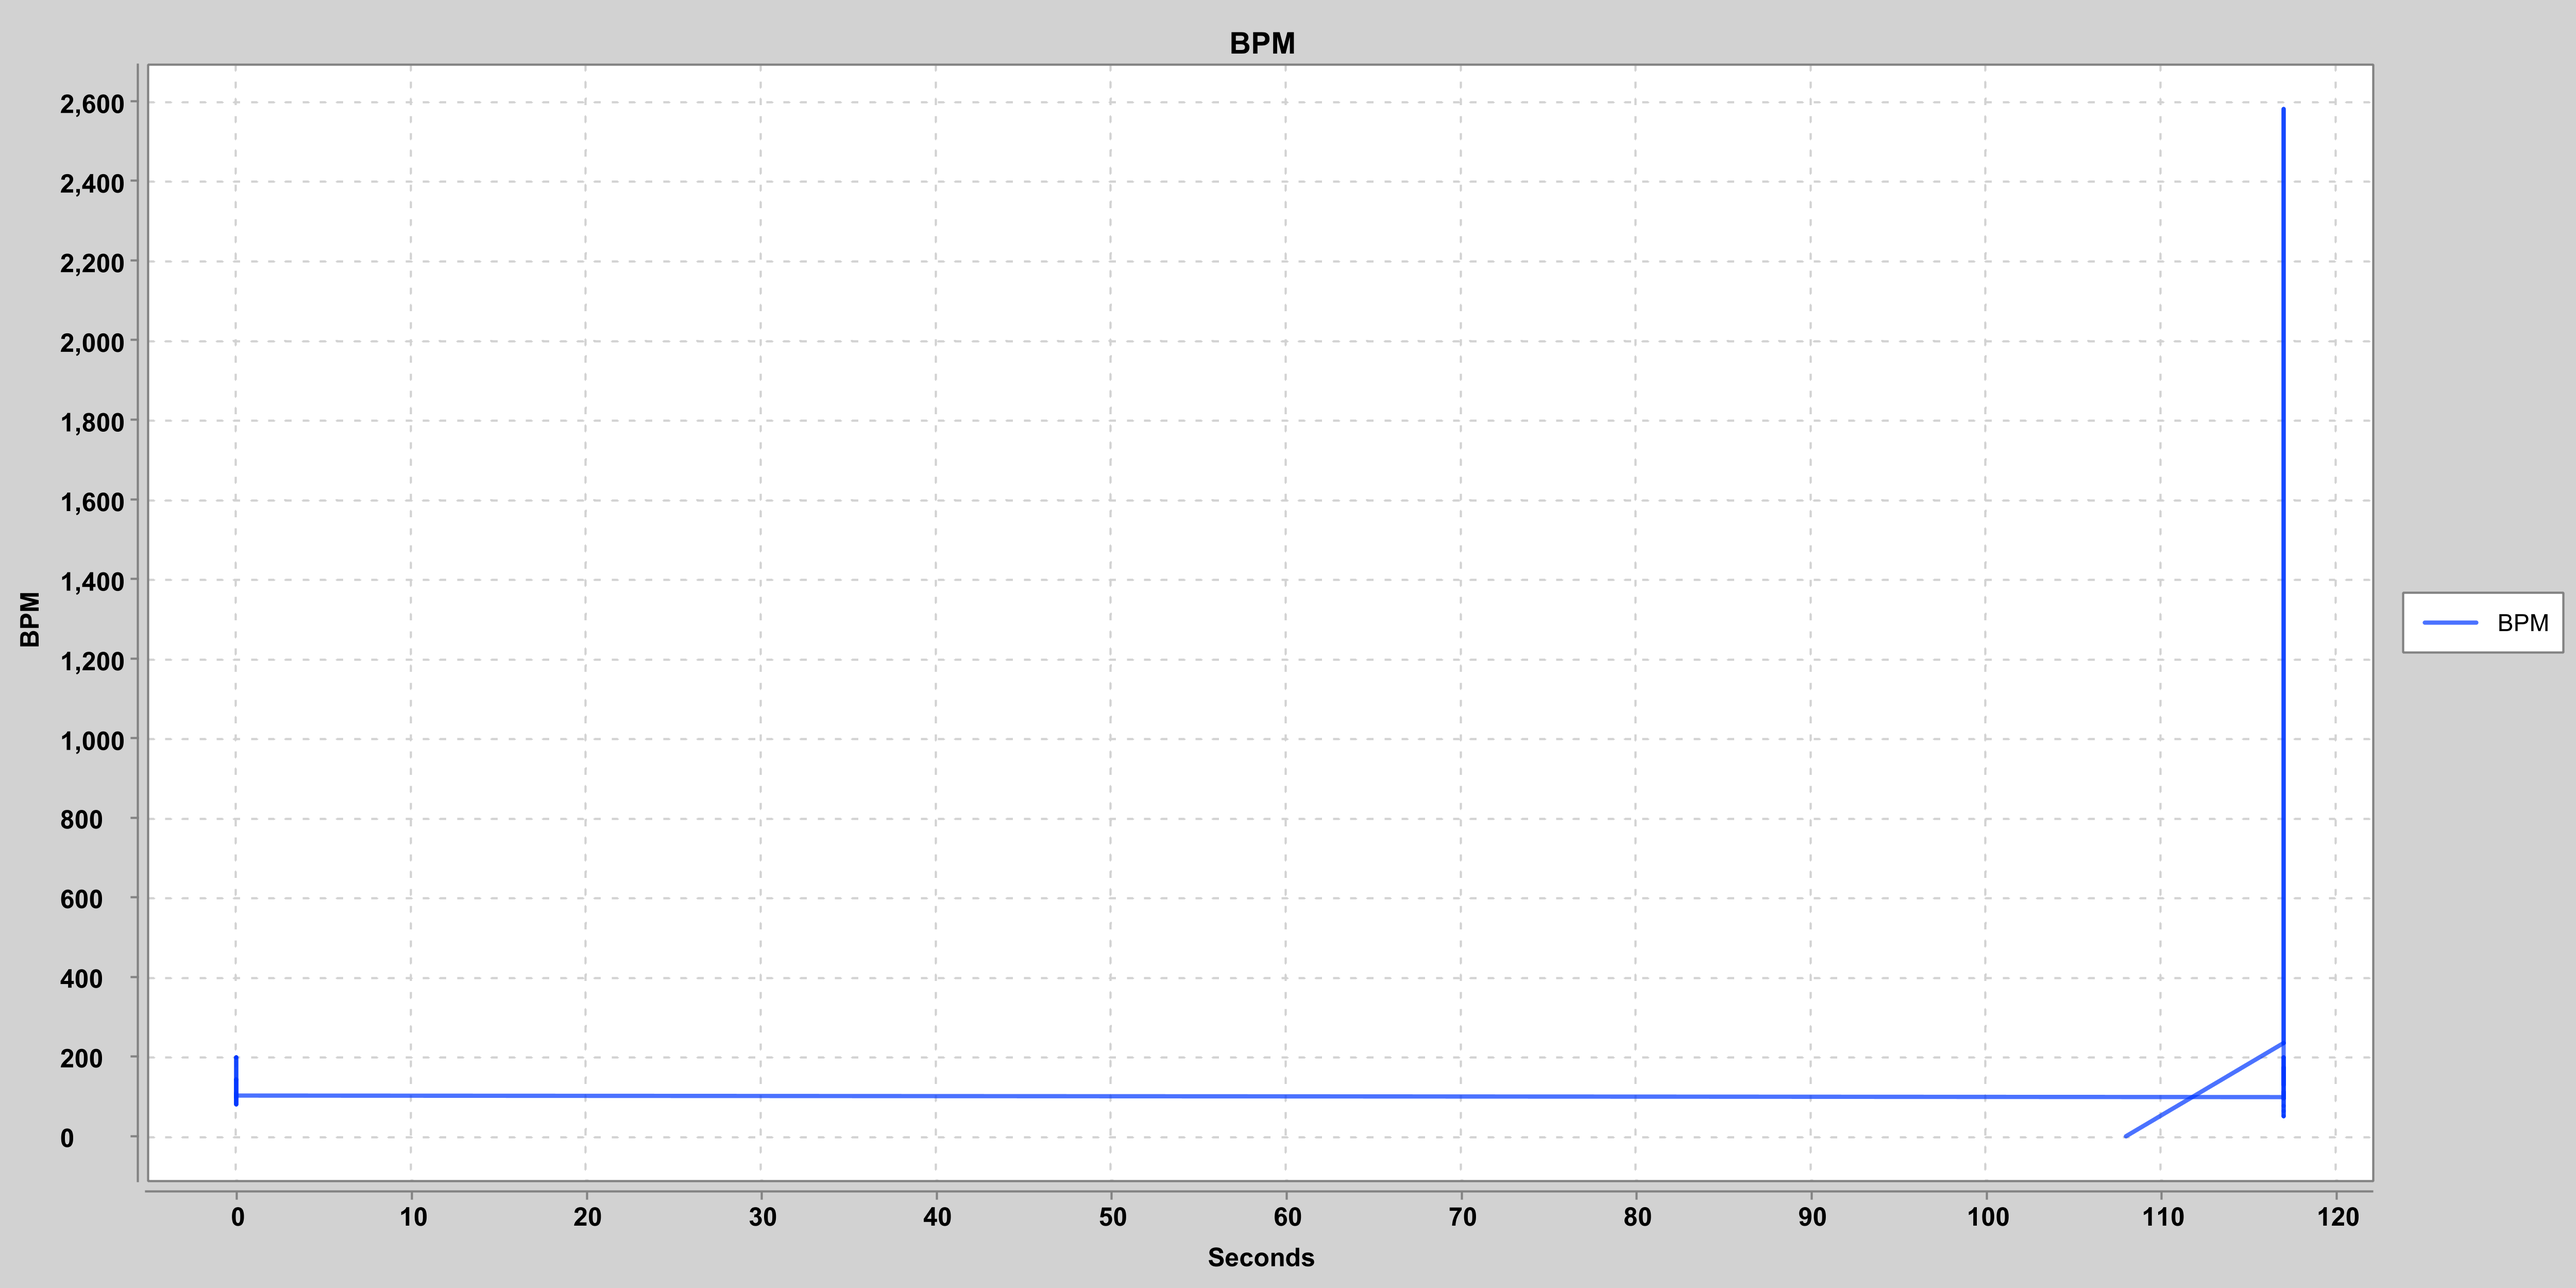
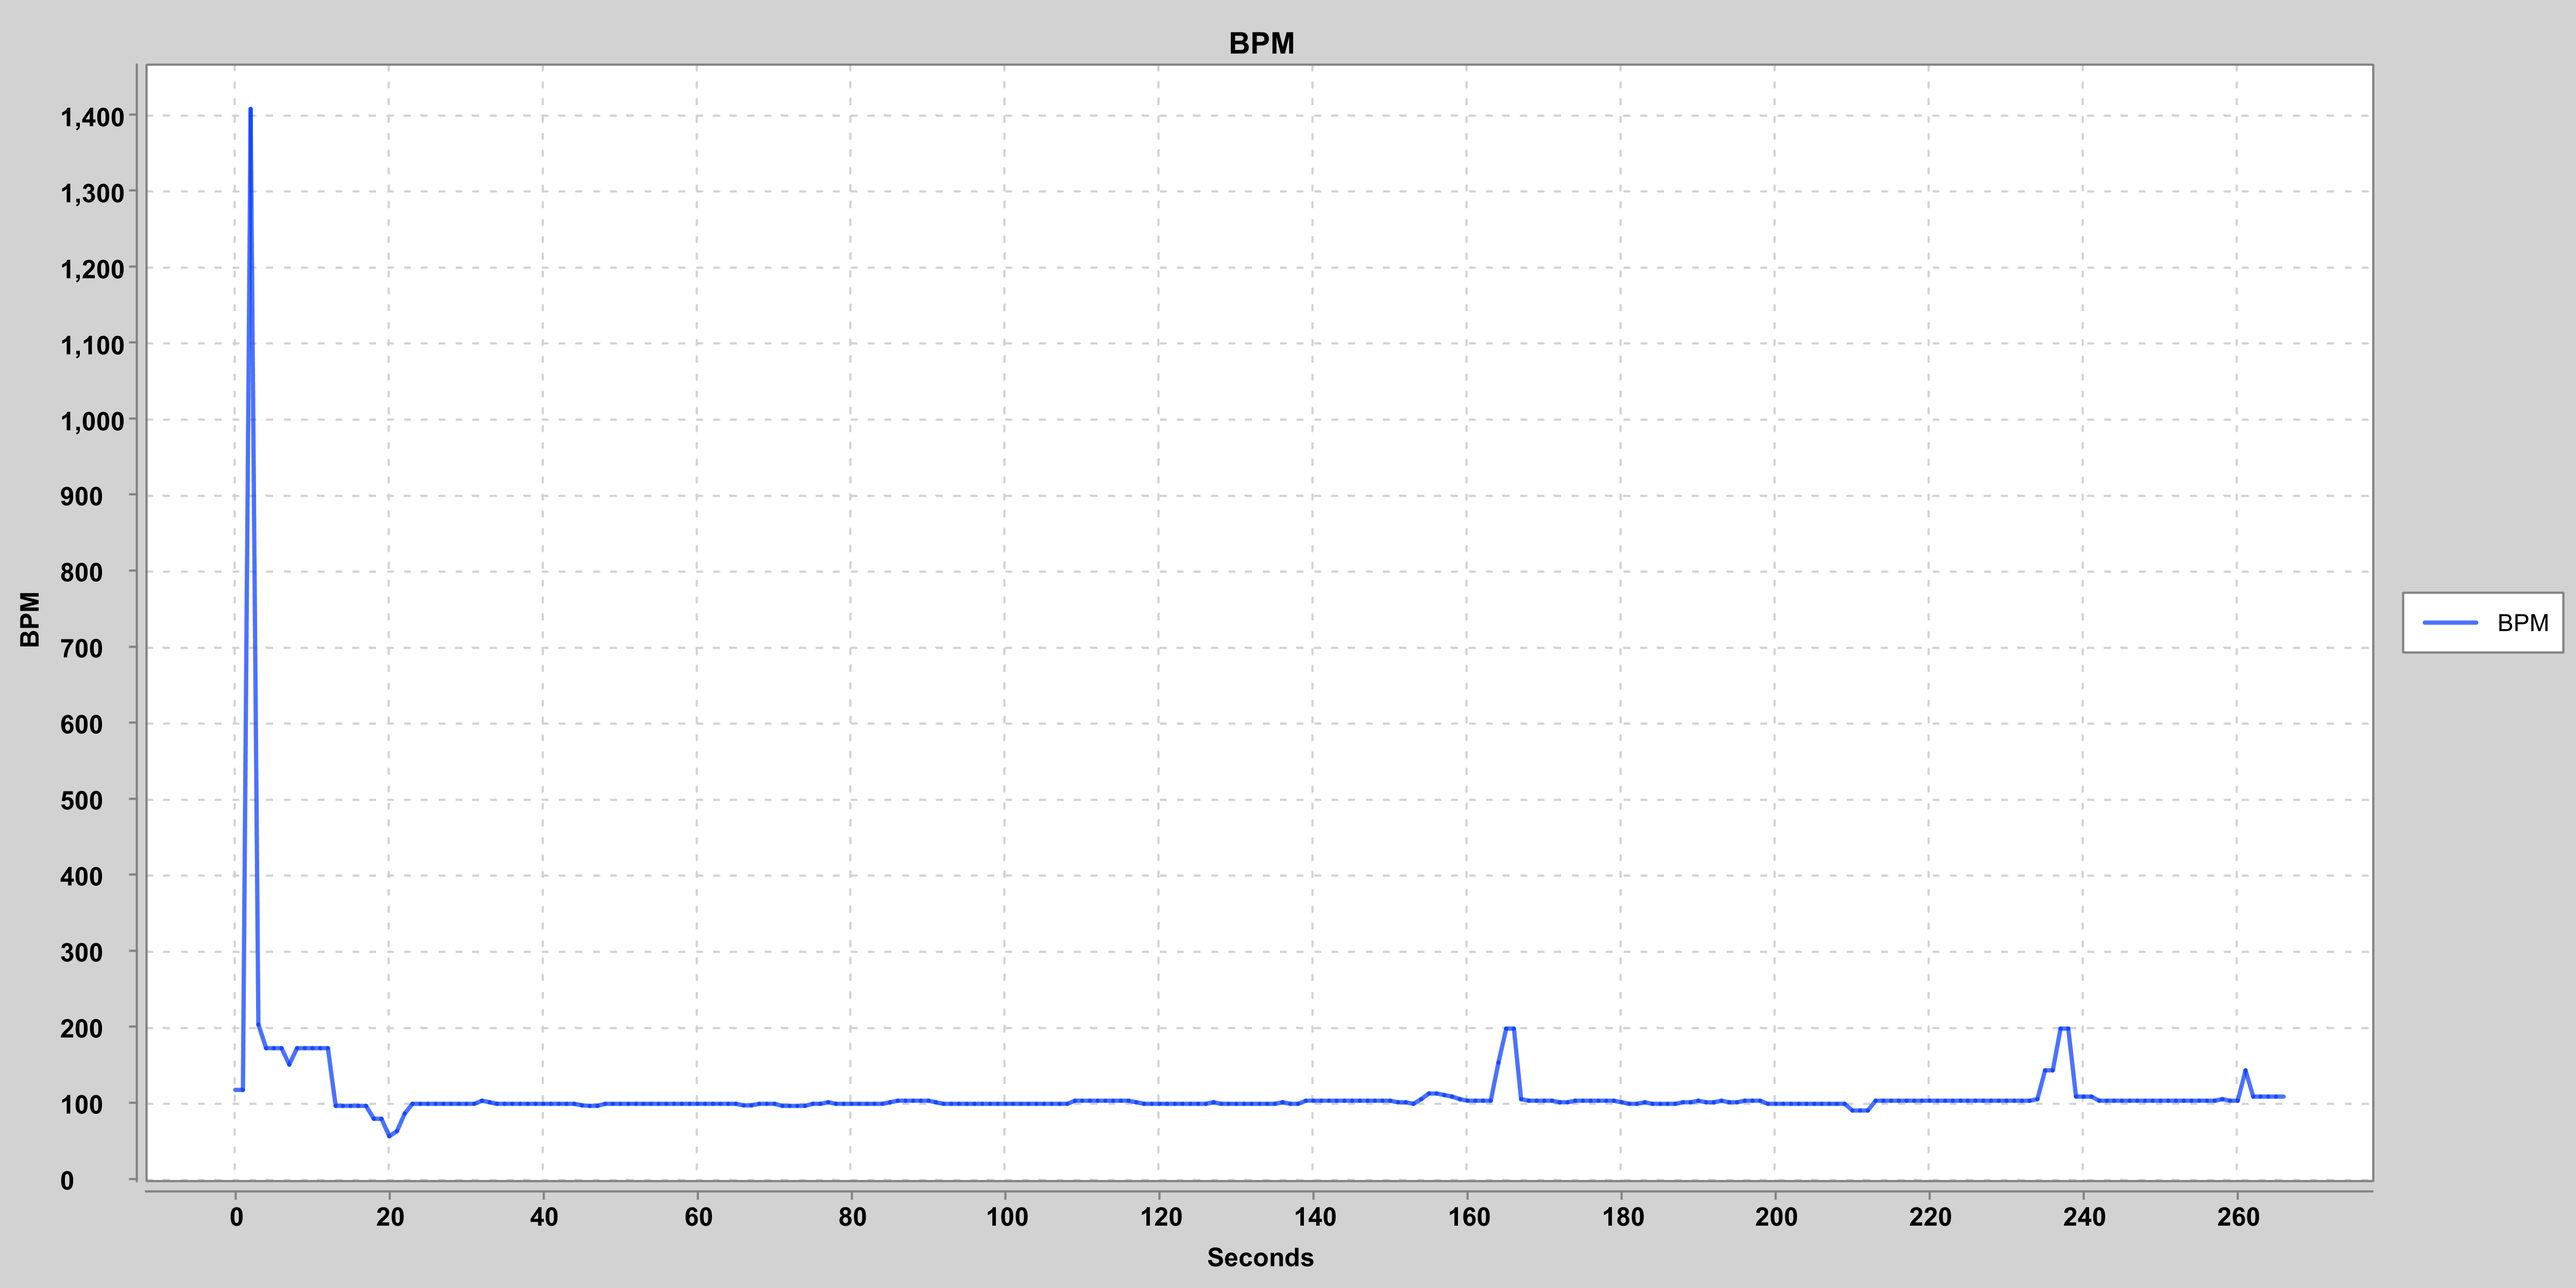
Finished BPM algorithm!

diff --git a/AudioTranscriber files/SongWriter/src/notes/BPMDetector.java b/AudioTranscriber files/SongWriter/src/notes/BPMDetector.java
@@ -10,14 +10,18 @@ public class BPMDetector extends WavFile {
 	private int[] audioEnergyHistoryBuffer = new int[Constants.WAV_BLOCKS_BUFFER_SIZE];
 	private ArrayList<Integer> tempoBuffer = new ArrayList<Integer>();
 	private ArrayList<Integer> beatLocations = new ArrayList<Integer>();
-	private int[] bpm;
+	private int[] bpm = null;
 	
 	public BPMDetector(String filePath) {
 		super(filePath);	
 	}
 	
-	public ArrayList<Integer> getBeatLocations() {
+	public ArrayList<Integer> getBeatLocations() { //returns ArrayList of beat indices, based on sample block list
 		return beatLocations;
+	}
+	
+	public int getSongLength() { //returns length of song in seconds
+		return super.audioDataBytes.size() / (Constants.WAV_SAMPLE_RATE / Constants.WAV_BLOCK_SIZE);
 	}
 	
 	//find instantaneous energy by looking at last 1024 frames (~1/43rd second) and finding total energy
@@ -56,19 +60,22 @@ public class BPMDetector extends WavFile {
 	}
 	
 	public int getTempoAt(double time) {
-		int timeIndex = (int) Math.round(time * Constants.WAV_SAMPLE_RATE); //convert seconds to sample
+		if (bpm == null) getBPM(); //if we haven't already searched for all the beats in the song, do it before running this script
+		int timeIndex = (int) Math.round(time * Constants.WAV_SAMPLE_RATE/Constants.WAV_BLOCK_SIZE); //convert seconds to sample
 		int indexCounter = 0;
-		while (indexCounter < getBeatLocations().size() - 1 && timeIndex < getBeatLocations().get(indexCounter)) { //bpms col 1 is index location of beat
+		while (indexCounter < getBeatLocations().size() - 1 && timeIndex > getBeatLocations().get(indexCounter)) {
 			indexCounter++; 
 		}
 		
-		if (indexCounter > 0) return (bpm[indexCounter - 1] + bpm[indexCounter])/2; //average of tempos at beats above and below index
+		if (indexCounter > 0) {
+			return (bpm[indexCounter - 1] + bpm[indexCounter])/2; //average of tempos at beats above and below index
+		}
 		else return (bpm[0] + bpm[1])/2; //in case we call the method for time 0
 	}
 	
 	public int[] getBPM() {
 		
-		System.out.println("Finding beats...");
+		System.out.println("\nFinding beats...");
 		for (int i = 0; i < (super.audioDataBytes.size() - Constants.WAV_BLOCKS_BUFFER_SIZE); i++) {
 			if (isBeat(i)) {
 				beatLocations.add(i);
@@ -90,19 +97,17 @@ public class BPMDetector extends WavFile {
 	}
 	
 	public static void main(String args[]) throws IOException { //run this to help determine proper value for ENERGY_PULSE_CONSTANT
-		BPMDetector detector = new BPMDetector(Constants.WAVFILE_LOCATION);
-		int[] bpms = detector.getBPM();
 		
-		double[] audioData = Plot2D.toDoubleArray(detector.getAudioData(0));
-		double[] fullTimesArray = new double[audioData.length];
-		for (int i = 0; i < fullTimesArray.length; i++) fullTimesArray[i] = i / Constants.WAV_SAMPLE_RATE;
+		BPMDetector detector = new BPMDetector(Constants.WAVFILE_LOCATION); //create object for wav file analysis
 		
 		ArrayList<Double> averageEnergies = new ArrayList<Double>();
 		ArrayList<Double> instantEnergies = new ArrayList<Double>();
 		ArrayList<Double> times = new ArrayList<Double>();
 		
-		int maxGraphBlock = detector.audioDataBytes.size() - Constants.WAV_BLOCKS_BUFFER_SIZE;
+		int maxGraphBlock = detector.audioDataBytes.size() - Constants.WAV_BLOCKS_BUFFER_SIZE; //max block index in wav file we can search without causing index error
 		
+		//collect energy data for plotting
+		System.out.println("\nFinding energy data...");
 		for (int i = 0; i < maxGraphBlock; i++) {
 			if (i % 1000 == 0) System.out.printf("Found energy for %d of %d blocks\n", i, maxGraphBlock);
 			averageEnergies.add(detector.getLocalAverageEnergy(i));
@@ -110,12 +115,15 @@ public class BPMDetector extends WavFile {
 			times.add((double)i * Constants.WAV_BLOCK_SIZE / Constants.WAV_SAMPLE_RATE);
 		}
 
+		//all x and y axis arrays for plotting
 		double[] averageEnergiesArr = new double[averageEnergies.size()];
 		double[] instantEnergiesArr = new double[instantEnergies.size()];
 		double[] thresholdEnergiesArr = new double[averageEnergies.size()];
 		double[] timesArr = new double[times.size()];
-		double[] beatTimes = new double[detector.getBeatLocations().size()];
+		double[] timeBeats = new double[detector.getSongLength()];
+		double[] beatTimes = new double[timeBeats.length];
 		
+		//store data for plotting energy
 		for (int i = 0; i < averageEnergiesArr.length; i++) {
 			averageEnergiesArr[i] = averageEnergies.get(i);
 			instantEnergiesArr[i] = instantEnergies.get(i);
@@ -123,13 +131,11 @@ public class BPMDetector extends WavFile {
 			timesArr[i] = times.get(i);
 		}
 		
+		//store data for plotting bpm
 		detector.getBeatLocations(); //create beat locations array 
-		for (int i = 0; i < timesArr[timesArr.length - 1]; i++) {
-			beatTimes[i] = detector.getTempoAt(i);
-		}
-		
-		for (double tempo : beatTimes) {
-			System.out.println(tempo);
+		for (int i = 0; i < detector.getSongLength(); i++) {
+			timeBeats[i] = detector.getTempoAt(i);
+			beatTimes[i] = i;
 		}
 		
 		Plot2D plot = new Plot2D("Sound Energy", "Seconds", "Energy", 1600, 600);
@@ -139,8 +145,7 @@ public class BPMDetector extends WavFile {
 		plot.showPlot();
 		
 		Plot2D plot2 = new Plot2D("BPM", "Seconds", "BPM");
-		plot2.addData("BPM", beatTimes, Plot2D.toDoubleArray(bpms));
+		plot2.addData("BPM", beatTimes, timeBeats);
 		plot2.showPlot();
-		
 	}
 }

diff --git a/AudioTranscriber files/SongWriter/src/main/Main.java b/AudioTranscriber files/SongWriter/src/main/Main.java
@@ -1,7 +1,5 @@
 package main;
 
-import org.knowm.xchart.*;
-
 public class Main {
 	public static void main(String args[]) {
 		//final final final final main program execution goes here
